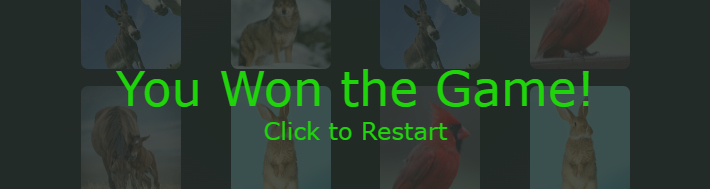
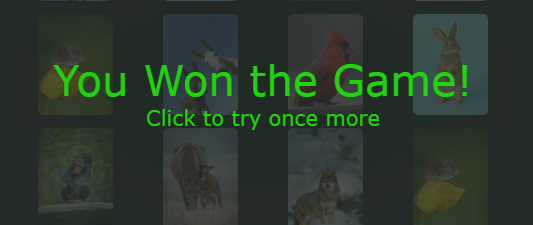
Add image for README document

diff --git a/README.md b/README.md
@@ -92,11 +92,11 @@ task within a certain time interval
 
 - As a user, when I turn over all the images in pairs of two of the same kind, I am greeted by a message on a transparent background that overlaps the game and which informs me that I have won, and gives me the opportunity to restart the game
 
-![img](readme-img/wingame-img.png)
+![img](readme-img/userwon.png)
 
 - As a user, if I do not manage to turn over all the images in 6o seconds, I am greeted by a message that informs me that the game is over and gives me the opportunity to restart the game
 
-![img](readme-img/game-over-img.png)
+![img](readme-img/userlost.png)
 
 ### Lighthouse check
 
